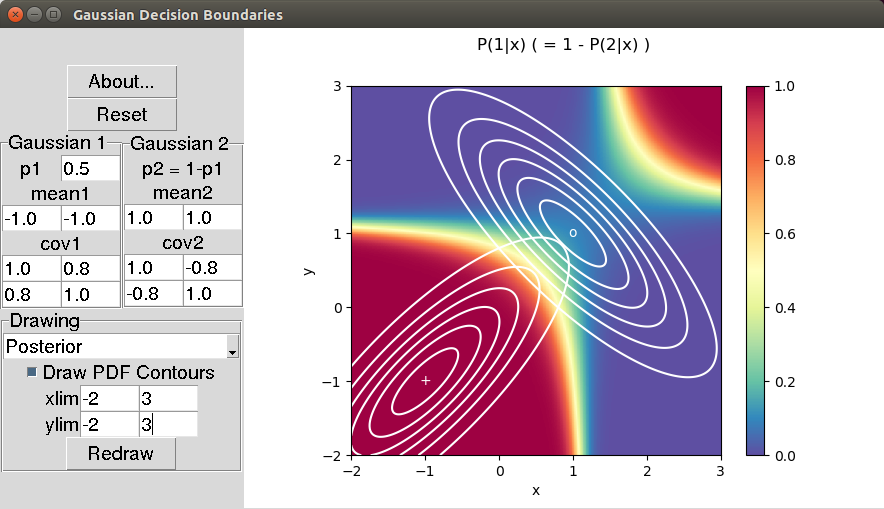
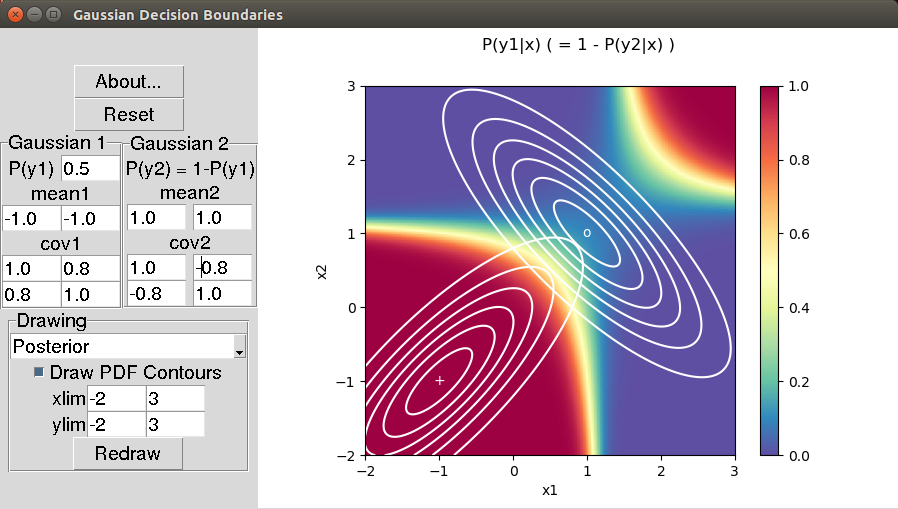
updated notation in the plots

diff --git a/GaussianDecisionBoundaries.py b/GaussianDecisionBoundaries.py
@@ -100,7 +100,7 @@ class GaussianDecisionBoundaries(ttk.Frame):
       e['s1xyW'] = ttk.Entry(gaussian1ParameterFrame, textvariable=self.s1xy, width=entryWidth, font=defaultFont)
       e['s1yxW'] = ttk.Entry(gaussian1ParameterFrame, textvariable=self.s1xy, width=entryWidth, font=defaultFont)
       gaussian2ParameterFrame = ttk.LabelFrame(gaussianParameterFrame, text='Gaussian 2')
-      e['p2W'] = ttk.Label(gaussian2ParameterFrame, text='1-p1')
+      e['p2W'] = ttk.Label(gaussian2ParameterFrame, text='1-P(y1)')
       e['mu2xW'] = ttk.Entry(gaussian2ParameterFrame, textvariable=self.mu2x, width=entryWidth, font=defaultFont)
       e['mu2yW'] = ttk.Entry(gaussian2ParameterFrame, textvariable=self.mu2y, width=entryWidth, font=defaultFont)
       e['s2xW'] = ttk.Entry(gaussian2ParameterFrame, textvariable=self.s2x, width=entryWidth, font=defaultFont)
@@ -127,7 +127,7 @@ class GaussianDecisionBoundaries(ttk.Frame):
          e[key].bind('<Return>', self.redraw)
       drawTypeW.bind("<<ComboboxSelected>>", self.redraw)
       # place widgets within gaussian1ParameterFrame
-      p1L = ttk.Label(gaussian1ParameterFrame, text='p1')
+      p1L = ttk.Label(gaussian1ParameterFrame, text='P(y1)')
       p1L.grid(row=0, column=0)
       e['p1W'].grid(row=0, column=1)
       mu1L = ttk.Label(gaussian1ParameterFrame, text='mean1')
@@ -141,7 +141,7 @@ class GaussianDecisionBoundaries(ttk.Frame):
       e['s1yxW'].grid(row=5, column=0)
       e['s1yW'].grid(row=5, column=1)
       # place widgets within gaussian2ParameterFrame
-      p2L = ttk.Label(gaussian2ParameterFrame, text='p2 = 1-p1')
+      p2L = ttk.Label(gaussian2ParameterFrame, text='P(y2) = 1-P(y1)')
       p2L.grid(row=0, column=0, columnspan=2)
       mu2L = ttk.Label(gaussian2ParameterFrame, text='mean2')
       mu2L.grid(row=1, column=0, columnspan=2)
@@ -230,23 +230,23 @@ class GaussianDecisionBoundaries(ttk.Frame):
          maxdata = np.max(np.abs(np.log(rv1.pdf(pos))-np.log(rv2.pdf(pos))))
          cax = ax.imshow((np.log(rv1.pdf(pos)) - np.log(rv2.pdf(pos))).T, origin='lower', extent=[xlim[0], xlim[1], ylim[0], ylim[1]], cmap='Spectral_r', vmin=-maxdata, vmax=maxdata)
          self.fig.colorbar(cax)
-         self.fig.suptitle('log[p(x|1)/p(x|2)]')
+         self.fig.suptitle('log[p(x|y1)/p(x|y2)]')
       elif plotType == 'Scaled Posterior difference':
          maxdata = np.max(np.abs(rv1g-rv2g))
          cax = ax.imshow((rv1g - rv2g).T, origin='lower', extent=[xlim[0], xlim[1], ylim[0], ylim[1]], cmap='Spectral_r', vmin=-maxdata, vmax=maxdata)
          self.fig.colorbar(cax)
-         self.fig.suptitle('P(1)p(x|1) - P(2)p(x|2)')
+         self.fig.suptitle('P(y1)p(x|y1) - P(y2)p(x|y2)')
       elif plotType == 'Posterior':
          maxdata = np.max(np.abs(post1))
          cax = ax.imshow((post1).T, origin='lower', extent=[xlim[0], xlim[1], ylim[0], ylim[1]], cmap='Spectral_r', vmin=0, vmax=1)
          self.fig.colorbar(cax)
-         self.fig.suptitle('P(1|x) ( = 1 - P(2|x) )')
+         self.fig.suptitle('P(y1|x) ( = 1 - P(y2|x) )')
       else:
          messagebox.showerror("Error!", "Plot type not supported")
       ax.text(mu1[0], mu1[1], '+', color='white', horizontalalignment='center', verticalalignment='center')
       ax.text(mu2[0], mu2[1], 'o', color='white', horizontalalignment='center', verticalalignment='center')
-      ax.set_xlabel('x')
-      ax.set_ylabel('y')
+      ax.set_xlabel('x1')
+      ax.set_ylabel('x2')
       # plot contours for each PDF
       if self.drawPDFContour.get():
          ax.contour(x, y, rv1g, colors='w')
